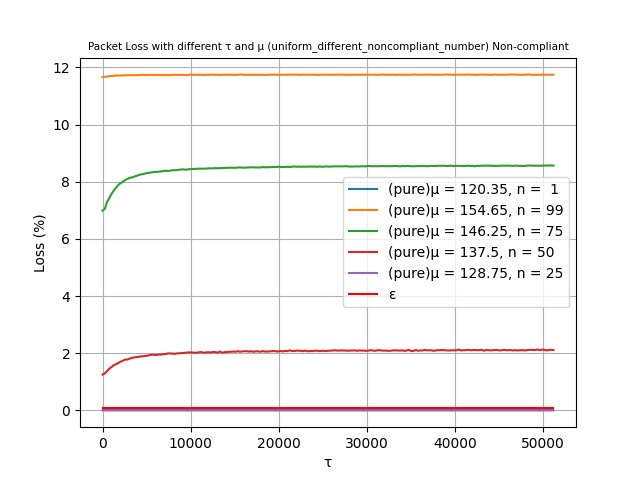
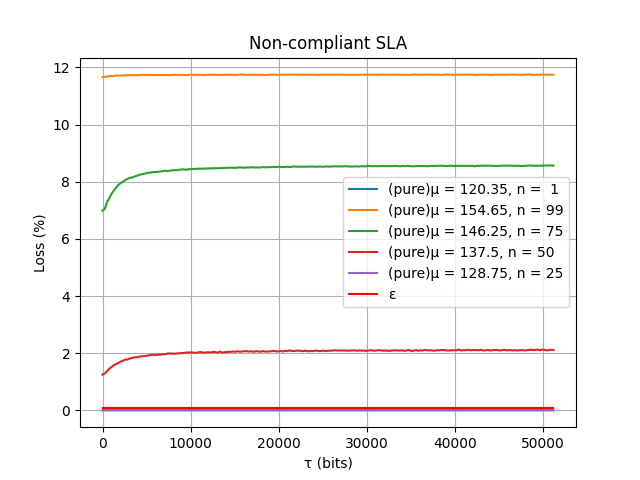
update the chart of uniform distribution adjusting different non-compliant SLA

Changed region(s): [[0.125, 0.0625, 0.875, 0.125], [0.4688, 0.9375, 0.5625, 1.0]]

diff --git a/Simulation/python/compliant_and_non_compliant_all.py b/Simulation/python/compliant_and_non_compliant_all.py
@@ -34,7 +34,8 @@ if(name == 'uniform_different_noncompliant_number'):
             tau = dataframe[dataframe['noncompliant_tenant_number'] == key]['tau'].tolist()
             plt.plot(tau[:], noncompliant_loss_pure[:], linestyle='-', label='(pure)μ = {}, n = {:2d}'.format(real_noncompliant_mean, key), alpha = 1)
     plt.plot(tau_[:], [0.1 for i in tau_][:], linestyle='-', color = 'red', label='ε')
-    plt.title('Packet Loss with different τ and μ ({}) Non-compliant'.format(name), fontsize=7.5)
+    # plt.title('Packet Loss with different τ and μ ({}) Non-compliant'.format(name), fontsize=7.5)
+    plt.title('Non-compliant SLA')
     plt.ylabel('Loss (%)')
     plt.xlabel('τ (bits)')
     plt.legend()
@@ -49,7 +50,8 @@ if(name == 'uniform_different_noncompliant_number'):
             tau = dataframe[dataframe['noncompliant_tenant_number'] == key]['tau'].tolist()
             plt.plot(tau[:], compliant_loss_pure[:], linestyle='-', label='(pure)μ = {}, n = {:2d}'.format(real_noncompliant_mean, key), alpha = 1)
     plt.plot(tau_[:], [0.1 for i in tau_][:], linestyle='-', color = 'red', label='ε')
-    plt.title('Packet Loss with different τ and μ ({}) Compliant'.format(name), fontsize=7.5)
+    # plt.title('Packet Loss with different τ and μ ({}) Compliant'.format(name), fontsize=7.5)
+    plt.title('Compliant SLA')
     plt.ylabel('Loss (%)')
     plt.xlabel('τ (bits)')
     plt.legend()
@@ -65,7 +67,8 @@ if(name == 'uniform_different_noncompliant_number'):
             tau = dataframe[dataframe['noncompliant_tenant_number'] == key]['tau'].tolist()
             plt.plot(tau[:], noncompliant_loss_all[:], linestyle='-', label='(all)μ = {}, n = {:2d}'.format(real_noncompliant_mean, key), alpha = 1)
     plt.plot(tau_[:], [0.1 for i in tau_][:], linestyle='-', color = 'red', label='ε')
-    plt.title('Packet Loss with different τ and μ ({}) Non-compliant'.format(name), fontsize=7.5)
+    # plt.title('Packet Loss with different τ and μ ({}) Non-compliant'.format(name), fontsize=7.5)
+    plt.title('Non-compliant SLA')
     plt.ylabel('Loss (%)')
     plt.xlabel('τ (bits)')
     plt.legend()
@@ -80,7 +83,8 @@ if(name == 'uniform_different_noncompliant_number'):
             tau = dataframe[dataframe['noncompliant_tenant_number'] == key]['tau'].tolist()
             plt.plot(tau[:], compliant_loss_all[:], linestyle='-', label='(all)μ = {}, n = {:2d}'.format(real_noncompliant_mean, key), alpha = 1)
     plt.plot(tau_[:], [0.1 for i in tau_][:], linestyle='-', color = 'red', label='ε')
-    plt.title('Packet Loss with different τ and μ ({}) Compliant'.format(name), fontsize=7.5)
+    # plt.title('Packet Loss with different τ and μ ({}) Compliant'.format(name), fontsize=7.5)
+    plt.title('Compliant SLA')
     plt.ylabel('Loss (%)')
     plt.xlabel('τ (bits)')
     plt.legend()

diff --git a/Simulation/python/a.py b/Simulation/python/a.py
@@ -4,9 +4,22 @@ import pandas
 import numpy as np
 import sys
 
+x=[1+i*0.001 for i in range(11)]
+y = [17920,16384,14848,13824,12288,10752,9728,8704,7168,6144,5120]
+y_ = [-1280000*i+1297920-200 for i in x]
+plt.plot(x, y, linestyle='-', label='real data')
+plt.plot(x, y_, linestyle='-', label='equation data')
+# plt.title('Packet Loss with different τ and ratio ({}) Non-compliant'.format(name), fontsize=12)
+plt.ylabel('τ (bits)')
+plt.xlabel('Ratio')
+
+plt.legend()
+plt.grid(True)
+plt.savefig('../data/uniform_half_noncompliant_ratio/images/a.png')
+
 # x=[1+i*0.001 for i in range(11)]
-# y = [17920,16384,14848,13824,12288,10752,9728,8704,7168,6144,5120]
-# y_ = [-1280000*i+1297920-200 for i in x]
+# y = [51200,49512,48128,44032,41984,38912,36864,33792,30720,28672,26624]
+# y_ = [-2457600*i+2508800+200 for i in x]
 # plt.plot(x, y, linestyle='-', label='real data')
 # plt.plot(x, y_, linestyle='-', label='equation data')
 # # plt.title('Packet Loss with different τ and ratio ({}) Non-compliant'.format(name), fontsize=12)
@@ -15,31 +28,18 @@ import sys
 
 # plt.legend()
 # plt.grid(True)
-# plt.savefig('../data/uniform_half_noncompliant_ratio/images/a.png')
-
-x=[1+i*0.001 for i in range(11)]
-y = [51200,49512,48128,44032,41984,38912,36864,33792,30720,28672,26624]
-y_ = [-2457600*i+2508800+200 for i in x]
-plt.plot(x, y, linestyle='-', label='real data')
-plt.plot(x, y_, linestyle='-', label='equation data')
-# plt.title('Packet Loss with different τ and ratio ({}) Non-compliant'.format(name), fontsize=12)
-plt.ylabel('τ')
-plt.xlabel('Ratio')
-
-plt.legend()
-plt.grid(True)
-plt.savefig('../data/burst_half_noncompliant_ratio/images/b.png')
+# plt.savefig('../data/burst_half_noncompliant_ratio/images/b.png')
 
 
-x=[1+i*0.001 for i in range(11)]
-y = [51200,49152,48128,44032,41984,38912,36864,33792,30720,28672,26624]
-y_ = [-2457600*i+2508800+200 for i in x]
-plt.plot(x, y, linestyle='-', label='real data')
-plt.plot(x, y_, linestyle='-', label='equation data')
-# plt.title('Packet Loss with different τ and ratio ({}) Non-compliant'.format(name), fontsize=12)
-plt.ylabel('τ')
-plt.xlabel('Ratio')
+# x=[1+i*0.001 for i in range(11)]
+# y = [51200,49152,48128,44032,41984,38912,36864,33792,30720,28672,26624]
+# y_ = [-2457600*i+2508800+200 for i in x]
+# plt.plot(x, y, linestyle='-', label='real data')
+# plt.plot(x, y_, linestyle='-', label='equation data')
+# # plt.title('Packet Loss with different τ and ratio ({}) Non-compliant'.format(name), fontsize=12)
+# plt.ylabel('τ')
+# plt.xlabel('Ratio')
 
-plt.legend()
-plt.grid(True)
-plt.savefig('../data/burst_half_noncompliant_ratio/images/b.png')
+# plt.legend()
+# plt.grid(True)
+# plt.savefig('../data/burst_half_noncompliant_ratio/images/b.png')
